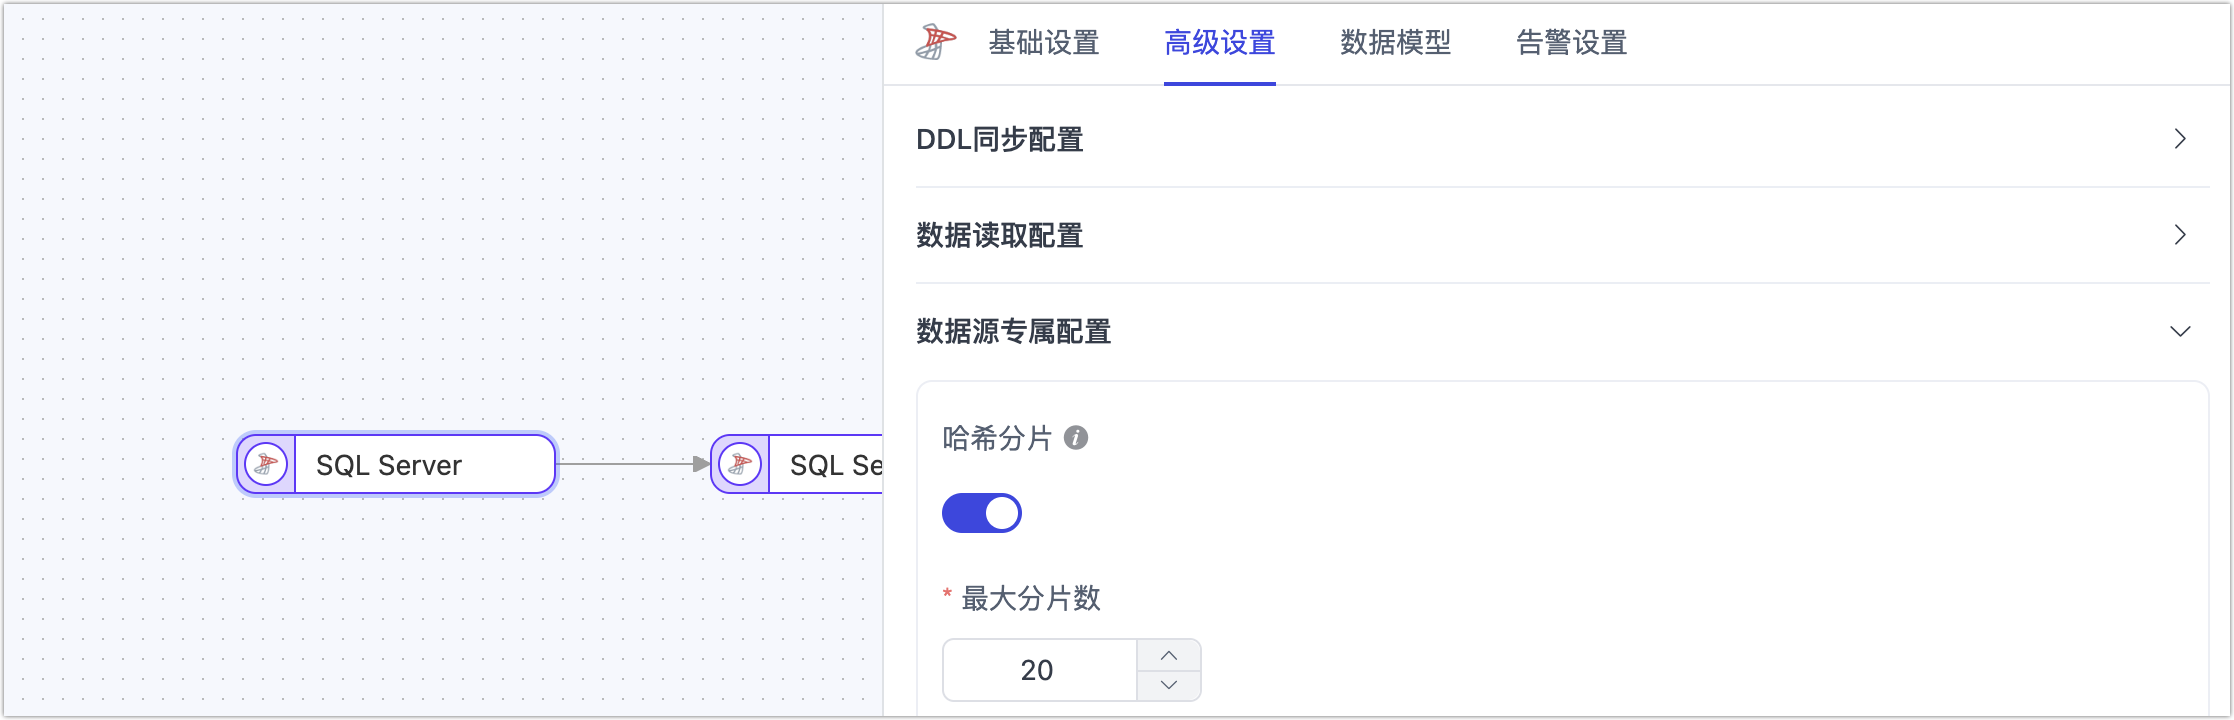
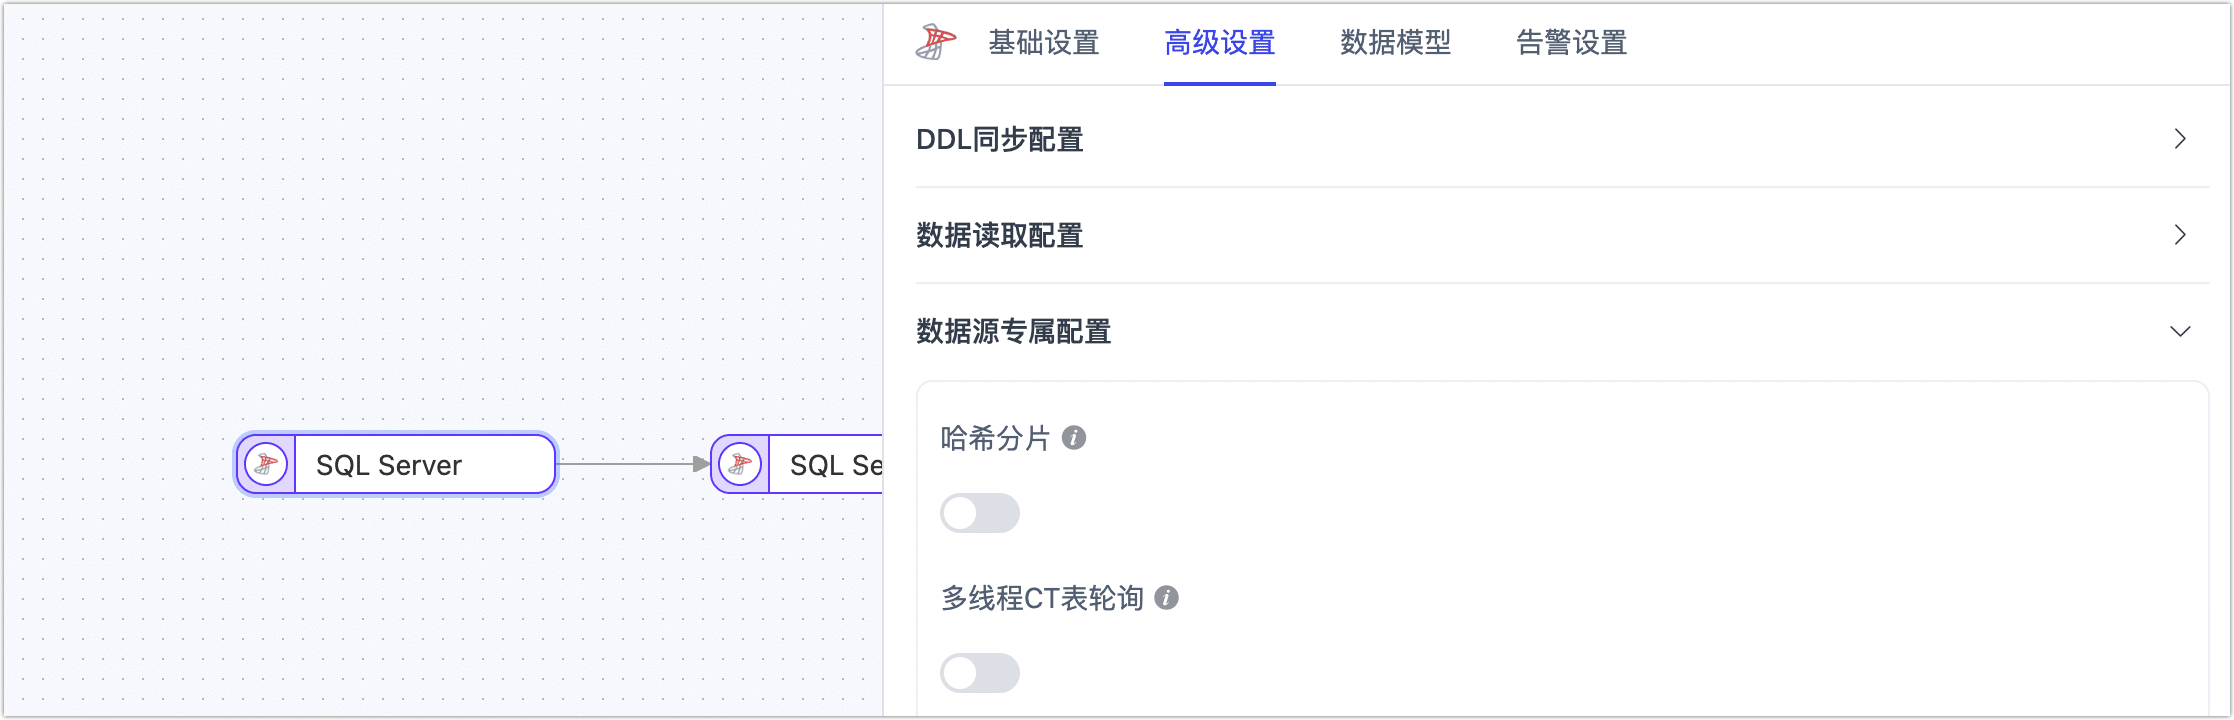
Release 3.15

diff --git a/docs/release-notes/release-notes-on-prem.md b/docs/release-notes/release-notes-on-prem.md
@@ -4,7 +4,28 @@ import Content from '../reuse-content/_enterprise-features.md';
 
 <Content />
 
-本文介绍 TapData Enterprise V3.x 的版本更新日志，早期版本请参见 [V2.x 版本更新日志](https://docs.tapdata.net/2.0/release-notes)
+本文介绍 TapData Enterprise V3.x 的版本更新日志，早期版本请参见 [V2.x 版本更新日志](https://docs.tapdata.net/2.0/release-notes)。
+
+## 3.15
+
+### 新增功能
+
+* Kafka-Enhanced、TiDB 已通过 TapData 认证测试流程，升级为[认证级别数据源](../prerequisites/supported-databases)，提供更丰富的特性和更高的生产稳定性
+
+### 功能优化
+
+- 为 SQL Server 大量表（超过 500 表）同步场景，增加[多线程 CT 表轮询](../prerequisites/on-prem-databases/sqlserver#advanced-settings)开关，优化增量采集性能，提升同步效率
+- 优化处理节点的缓存管理逻辑，增强资源使用效率，提升任务执行速度
+- 为 Oracle LogMiner PGA 超出限制错误引入自动重试机制，增强容错能力
+
+### 问题修复
+
+- 修复开启心跳表后，任务表显示无延迟但数据未同步的问题
+- 修复设置标签时无法查看所有标签的问题
+- 修复任务重试开始时间显示为 1970 年的问题
+- 修复 Elasticsearch 作为目标库时，创建索引失败的问题
+- 修复校验任务中，差异校验结果不一致时全量重新校验的问题
+- 修复关联键校验任务结果不一致时，下载详情为空的问题
 
 ## 3.14
 

diff --git a/docs/prerequisites/on-prem-databases/sqlserver.md b/docs/prerequisites/on-prem-databases/sqlserver.md
@@ -335,13 +335,21 @@ import TabItem from '@theme/TabItem';
 
    :::
 
-## 节点高级特性
+## <span id="advanced-settings">节点高级特性</span>
 
-在配置数据同步或转换任务场景下，将 SQL Server 作为源节点时，您可以启用**哈希分片**并设置最大分片数。在全量同步阶段，数据将根据哈希值拆分为多个分片并发读取，显著提升读取性能，但同时也会增加数据库负载。
+将 SQL Server 作为任务的源节点时，TapData 提供了多个高级功能以提升性能和应对复杂场景：
 
 ![节点高级设置](../../images/sql_server_node_advanced_settings.png)
 
+* **哈希分片**：默认关闭，打开后 TapData 将在全量同步阶段，根据哈希值拆分为多个分片并发读取，显著提升读取性能，但同时也会增加数据库负载。
 
+* **多线程 CT 表轮询**：默认关闭，当源 SQL Server 有大量表（超过 500 表）需要同步时，可打开开关，优化增量采集性能，提升同步效率。
+
+  :::tip
+
+  该功能仅在配置数据复制任务时支持。
+
+  :::
 
 ## 常见问题
 

diff --git a/docs/release-notes/release-notes-cloud.md b/docs/release-notes/release-notes-cloud.md
@@ -17,6 +17,25 @@ import TabItem from '@theme/TabItem';
   <TabItem value="2024 年" default>
 ```
 
+### 2024-10-17
+
+#### 新增功能
+
+* Kafka-Enhanced、TiDB 已通过 TapData 认证测试流程，升级为[认证级别数据源](../prerequisites/supported-databases)，提供更丰富的特性和更高的生产稳定性
+
+#### 功能优化
+
+- 为 SQL Server 大量表（超过 500 表）同步场景，增加[多线程 CT 表轮询](../prerequisites/on-prem-databases/sqlserver#advanced-settings)开关，优化增量采集性能，提升同步效率
+- 优化处理节点的缓存管理逻辑，增强资源使用效率，提升任务执行速度
+- 为 Oracle LogMiner PGA 超出限制错误引入自动重试机制，增强容错能力
+
+#### 问题修复
+
+- 修复开启心跳表后，任务表显示无延迟但数据未同步的问题
+- 修复设置标签时无法查看所有标签的问题
+- 修复任务重试开始时间显示为 1970 年的问题
+- 修复 Elasticsearch 作为目标库时，创建索引失败的问题
+
 ### 2024-10-10
 
 #### 新增功能

diff --git a/docs/release-notes/release-notes-community.md b/docs/release-notes/release-notes-community.md
@@ -6,6 +6,23 @@ import Content from '../reuse-content/_community-features.md';
 
 本文介绍 TapData Community 近期版本的更新日志，更多早期版本，请参见 [GitHub Release 页面](https://github.com/tapdata/tapdata/releases)。
 
+## 3.15
+
+### 新增功能
+
+* TiDB 已通过 TapData 认证测试流程，升级为[认证级别数据源](../prerequisites/supported-databases)，提供更丰富的特性和更高的生产稳定性
+
+### 功能优化
+
+- 优化处理节点的缓存管理逻辑，增强资源使用效率，提升任务执行速度
+
+### 问题修复
+
+- 修复开启心跳表后，任务表显示无延迟但数据未同步的问题
+- 修复设置标签时无法查看所有标签的问题
+- 修复任务重试开始时间显示为 1970 年的问题
+- 修复 Elasticsearch 作为目标库时，创建索引失败的问题
+
 ## 3.14
 
 ### 新增功能

diff --git a/docs/prerequisites/mq-and-middleware/kafka-enhanced.md b/docs/prerequisites/mq-and-middleware/kafka-enhanced.md
@@ -1,5 +1,5 @@
 # Kafka-Enhanced
-import Content from '../../reuse-content/_all-features.md';
+import Content from '../../reuse-content/_enterprise-and-cloud-features.md';
 
 <Content />
 
@@ -9,7 +9,7 @@ import Content from '../../reuse-content/_all-features.md';
 
 :::tip
 
-Kafka-Enhanced 数据源会在即将发布的 3.15 版本中提供支持。
+Kafka-Enhanced 数据源在 3.15 版本开始支持。
 
 :::
 
@@ -20,7 +20,7 @@ import TabItem from '@theme/TabItem';
 
 ## 支持版本与架构
 
-* **版本**：Kafka 2.0 ~ 2.5 或 Scala 2.12 
+* **版本**：Kafka 2.0 ~ 2.5（基于 Scala 2.12 构建）
 * **架构**：单机或集群架构
 
 ## 支持数据类型

diff --git a/docs/prerequisites/supported-databases.md b/docs/prerequisites/supported-databases.md
@@ -91,7 +91,7 @@ import TabItem from '@theme/TabItem';
     <td>➖</td>
     <td>✅</td>
     <td>➖</td>
-    <td>Kafka 2.0 ~ 2.5 或 Scala 2.12</td>
+    <td>Kafka 2.0 ~ 2.5（基于 Scala 2.12 构建）</td>
   </tr>
   <tr>
     <td>Kafka</td>
